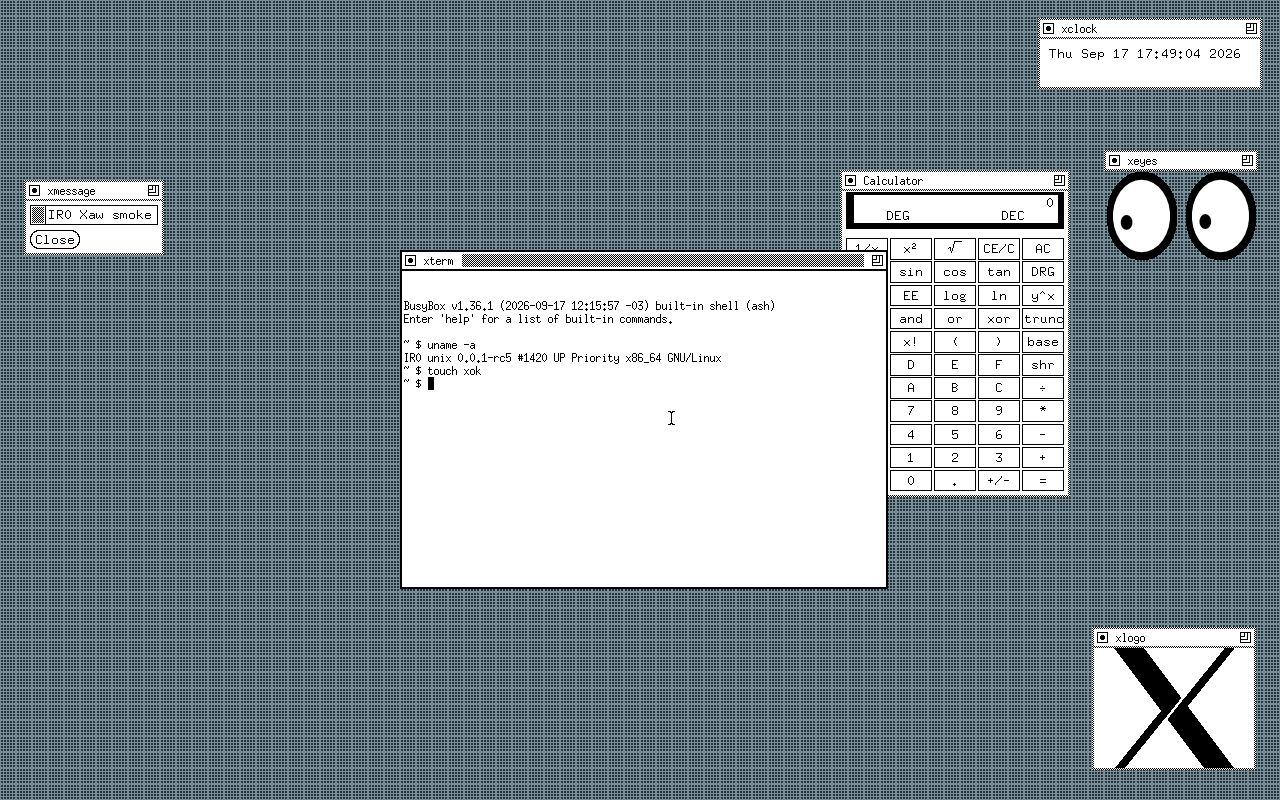
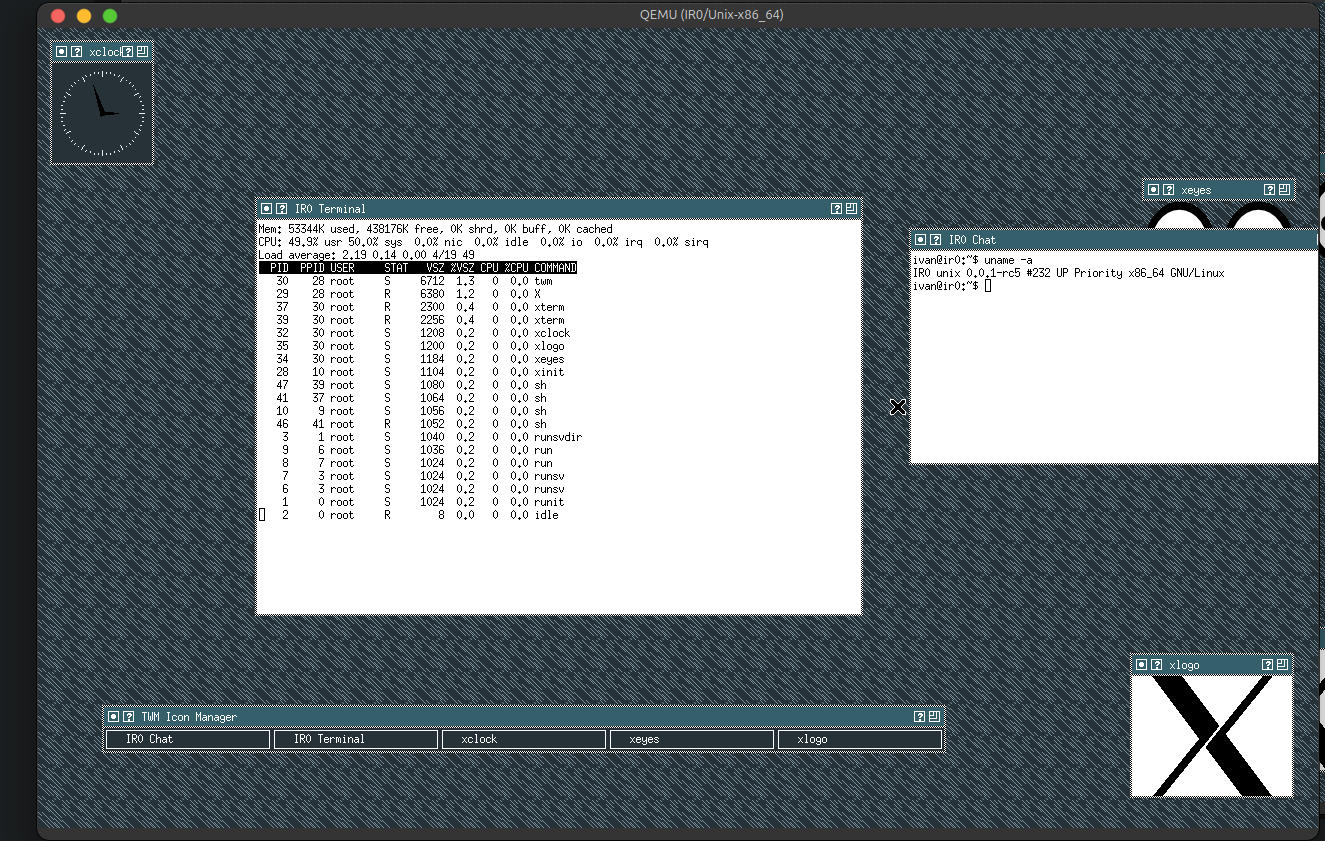
feat(isd): wire desktop-console profile and refresh X11 README shot.
Expose PROFILE=desktop-console in the ISD bridge (ext2 home disk, desktop
userspace sync). Document terminal-first boot in README and replace the
X11 screenshot with a current QEMU capture.

diff --git a/README.md b/README.md
@@ -66,7 +66,7 @@ ISD builds a finished image; IR0 boots it.
   <img src="scripts/kconfig/assets/isd-x11-desktop.png" alt="IR0 running an upstream X11 desktop with uname output" width="960" />
 </p>
 
-<p align="center"><em>Experimental upstream X11 session on IR0: TinyX/Xfbdev, twm, xterm, Xaw clients, mouse and keyboard. The terminal identifies the tested kernel with <code>uname -a</code>.</em></p>
+<p align="center"><em>Upstream X11 session on IR0 (<code>PROFILE=desktop-console</code>, manual <code>startx</code>): TinyX/Xfbdev, twm, xterm, Xaw clients. Terminal shows <code>uname -a</code> on kernel <code>0.0.1-rc5</code>.</em></p>
 
 <p align="center">
   <img src="./scripts/kconfig/assets/isd-panic-gtk.png" alt="IR0 kernel panic on GTK framebuffer — uptime, fault site, safe shutdown" width="720" />
@@ -82,6 +82,10 @@ cd IR0
 make check-env                    # host diagnostic (or: first-boot asks to install)
 make first-boot PROFILE=minimal   # host deps (ask) + clone ../ISD + image + ISO
 make run PROFILE=minimal          # QEMU GTK → getty → BusyBox ash
+
+# Full desktop userspace (X11 stack) — terminal first, start GUI when you want:
+make first-boot PROFILE=desktop-console
+make run PROFILE=desktop-console   # login → ash; then: startx
 ```
 
 `first-boot` asks before installing host packages (`IR0_DEPS_INSTALL=ask|yes|never`).
